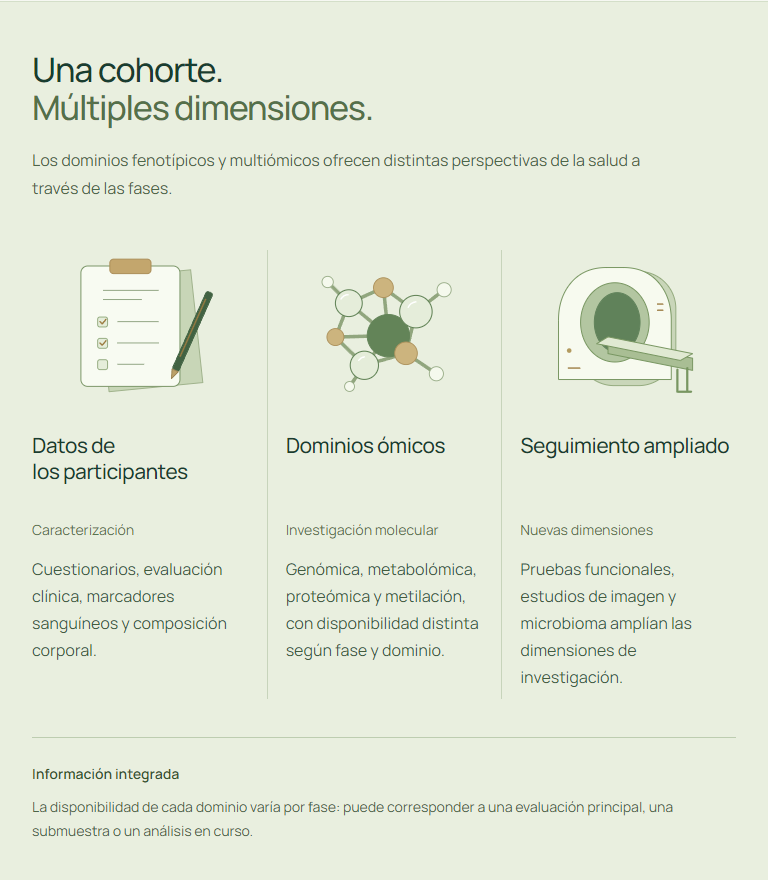
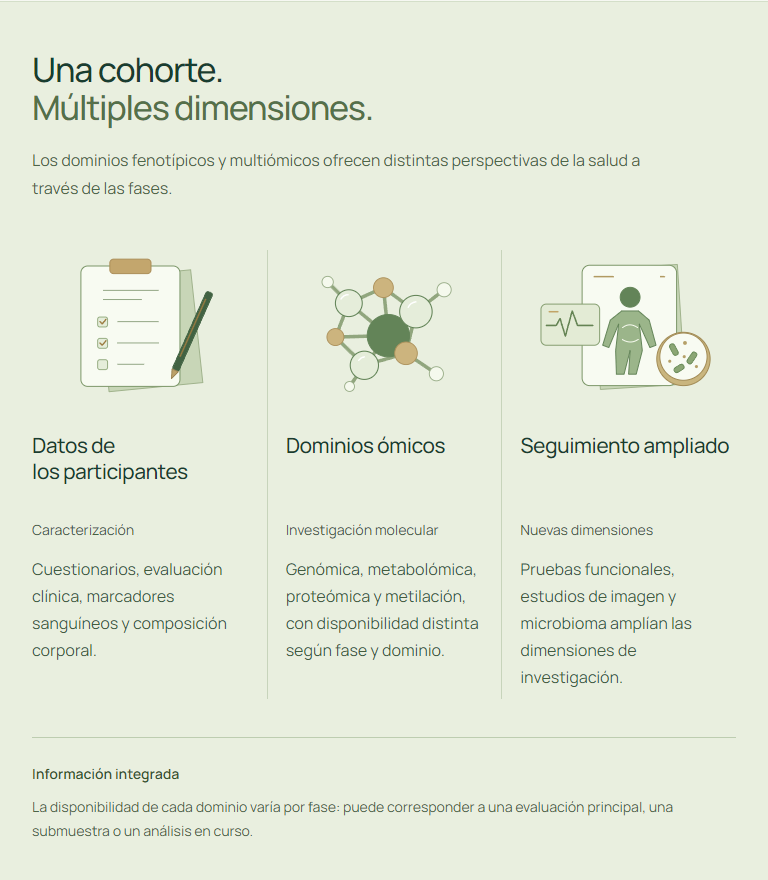
Replace scanner with broader follow-up illustration

Changed region(s): [[0.6875, 0.2761, 0.9375, 0.4602]]

diff --git a/public/landing/proyecto-propuesta/index.html b/public/landing/proyecto-propuesta/index.html
@@ -1,1 +1,1 @@
-<!doctype html><html lang="es"><head><meta charset="utf-8"><meta name="viewport" content="width=device-width,initial-scale=1"><meta name="robots" content="noindex,nofollow"><title>El proyecto · Investigación que conecta | Cohorte</title><link rel="icon" href="../assets/0082ee1e712e9015.png"><link rel="stylesheet" href="../exploraciones/fonts.css"><link rel="stylesheet" href="styles.css?v=3"><link rel="stylesheet" href="dimensions.css?v=4"></head><body><a class="skip-link" href="#proyecto">Saltar al contenido</a><header class="preview-header"><div class="container preview-inner"><a class="identity" href="/"><img src="../assets/0082ee1e712e9015.png" width="44" height="44" alt="Logo de la Cohorte"><span>Cohorte de<br>Trabajadores de la Salud</span></a><nav aria-label="Vistas de la propuesta"><span>El proyecto · Propuesta visual</span><a href="anterior.html">Versión anterior</a><a href="/landing/_content.html#preguntas-investigacion">Sitio actual</a></nav></div></header><main id="proyecto"><section class="research container" aria-labelledby="project-title"><div class="introduction"><h1 id="project-title"><span>Una misma cohorte.</span>Muchas preguntas<br>por responder.</h1><div class="intro-copy"><p>La información reunida a lo largo del seguimiento ha dado lugar a publicaciones en distintas áreas de la salud, por ejemplo:</p><a class="jump-link" href="#informacion">Explorar la información integrada</a></div></div><div class="research-grid"><article class="research-plate cardio" id="area-1"><svg class="organ organ-heart" viewBox="0 0 270 210" aria-hidden="true" fill="none"><g stroke="currentColor" stroke-width="1.5" stroke-linecap="round" stroke-linejoin="round"><path class="solid" d="M117 65c-4-23 12-34 27-27 12 4 16 18 12 29 17-8 34 6 35 25 2 27-21 48-47 73-19-8-58-38-64-65-5-21 11-37 37-35Z"/><path d="M121 70c-3-18-7-29-3-45m20 34 10-33m5 47 25-25M140 89c-1 26 7 39 6 66m-3-63c-14-17-31-15-43-4m43 20c17-13 30-12 41-5m-44 17-23 5m29 12 17-7"/><path class="trace" d="M16 110h33l9-16 12 37 15-54 13 33h21"/></g></svg><div class="plate-copy"><h2>Alimentación y salud cardiometabólica</h2><p>Las publicaciones de la Cohorte han analizado cómo se relacionan el consumo de bebidas, los patrones alimentarios, la presión arterial y los indicadores metabólicos.</p></div></article><article class="research-plate body" id="area-2"><svg class="organ organ-body" viewBox="0 0 270 210" aria-hidden="true" fill="none"><g stroke="currentColor" stroke-width="1.5" stroke-linecap="round" stroke-linejoin="round"><circle class="solid" cx="135" cy="33" r="18"/><path class="solid" d="m119 58-26 17-17 52 13 4 21-44-7 62 10 48h16l5-44 5 44h16l10-48-7-62 20 44 14-4-18-52-24-17Z"/><path d="M112 104c15 8 30 8 45 0m-48 23c18 8 34 8 52 0m-42 18h31"/><ellipse class="orbit" cx="135" cy="116" rx="92" ry="25"/><path class="trace" d="M31 116h22m164 0h22"/></g></svg><div class="plate-copy"><h2>Composición corporal y metabolismo</h2><p>El seguimiento permite estudiar la relación temporal entre la adiposidad, los estilos de vida y los indicadores de resistencia a la insulina.</p></div></article><article class="research-plate bone" id="area-3"><svg class="organ organ-bone" viewBox="0 0 270 210" aria-hidden="true" fill="none"><g stroke="currentColor" stroke-width="1.5" stroke-linecap="round" stroke-linejoin="round"><g transform="rotate(28 140 100)"><path class="solid" d="M126 52c-27 9-42-20-21-31 10-7 20 3 25-1 9-16 30-10 31 5 1 11-8 17-11 27-8 26-8 63 0 92 4 10 14 14 13 27-2 18-23 21-33 6-9 10-29 8-31-8-3-13 10-20 15-30 9-23 10-63 12-87Z"/><path d="M126 52c10-6 18-7 24 0m-36 87c10 9 22 10 36 5m-13-76-3 52"/><path class="detail" d="m111 27 9 4-6 9m29-12-6 9 8 4m-34 116 10 4-6 9m29-15-6 10 11 3"/></g></g></svg><div class="plate-copy"><h2>Salud ósea y nutrición</h2><p>Distintos análisis estudian la densidad mineral ósea y su relación con la alimentación, los antioxidantes y los factores genéticos.</p></div></article><article class="research-plate mind" id="area-4"><svg class="organ organ-brain" viewBox="0 0 270 210" aria-hidden="true" fill="none"><g stroke="currentColor" stroke-width="1.5" stroke-linecap="round" stroke-linejoin="round"><path class="solid" d="M135 37c-18-21-48-9-49 13-21-2-36 18-28 36-23 12-22 43 0 54-2 24 18 40 40 34 7 19 29 21 37 6 8 15 30 13 37-6 22 6 42-10 40-34 22-11 23-42 0-54 8-18-7-38-28-36-1-22-31-34-49-13Z"/><path d="M135 37v143M86 50c19-1 29 13 21 28m-49 8c20-8 33 0 35 16m-35 38c12-19 30-14 36-1m4 35c-5-17 2-28 17-30m69-94c-19-1-29 13-21 28m49 8c-20-8-33 0-35 16m35 38c-12-19-30-14-36-1m-4 35c5-17-2-28-17-30M107 78c17 0 28 12 28 24m28-24c-17 0-28 12-28 24M93 102c-9 14 1 27 14 26m70-26c9 14-1 27-14 26"/></g></svg><div class="plate-copy"><h2>Salud mental y contexto de vida</h2><p>La investigación también aborda los síntomas depresivos y su relación con la actividad física, la alimentación y experiencias del entorno personal.</p></div></article><article class="research-plate genetics" id="area-5"><img class="dna-art" src="../assets/adn-molecular.png" width="1024" height="1536" alt="Representación molecular de una doble hélice de ADN"><div class="plate-copy"><h2>Genética y microbiota intestinal</h2><p>En subgrupos de participantes se han estudiado variantes genéticas, composición de la microbiota y su relación con la salud metabólica.</p></div></article><article class="research-plate liver" id="area-6"><svg class="organ organ-liver" viewBox="0 0 270 210" aria-hidden="true" fill="none"><g stroke="currentColor" stroke-width="1.5" stroke-linecap="round" stroke-linejoin="round"><path class="solid" d="M42 105c1-32 19-59 51-63 37-6 48 8 75 9 15 1 31-4 43 2 21 12 24 35 15 55-10 22-31 23-48 12-8-5-18-6-27 0-23 13-49 35-73 30-23-4-37-21-36-45Z"/><path d="M155 51c-14 18-8 45-4 69m-9-29c-26-8-48-7-68 1m63 0c-9 13-17 24-32 31m44-43c23 0 40-3 54-14"/><path class="trace" d="M81 172h18m7 0h18m7 0h18m7 0h18"/></g></svg><div class="plate-copy"><h2>Salud hepática</h2><p>La información de la Cohorte ha permitido investigar herramientas no invasivas para evaluar el riesgo de fibrosis hepática a partir de mediciones clínicas y bioquímicas.</p></div></article></div><p class="research-note">Cada investigación utiliza las fases y los participantes que corresponden a su pregunta de estudio. Los hallazgos describen asociaciones en los grupos analizados.</p></section><section class="dimensions" id="informacion" aria-labelledby="information-title"><div class="container"><div class="dimensions-heading"><h2 id="information-title">Una cohorte.<br><span>Múltiples dimensiones.</span></h2><p>Los dominios fenotípicos y multiómicos ofrecen distintas perspectivas de la salud a través de las fases.</p></div><div class="dimensions-grid"><article class="dimension"><svg viewBox="0 0 280 210" aria-hidden="true" class="dimension-art"><path class="paper-back" d="m83 38 123-12 16 148-123 12Z"/><rect class="paper" x="62" y="21" width="130" height="158" rx="9"/><rect class="clip" x="100" y="12" width="54" height="19" rx="5"/><path class="ink" d="M91 53h73M91 65h51"/><rect class="check-box" x="84" y="88" width="13" height="13" rx="3"/><rect class="check-box" x="84" y="116" width="13" height="13" rx="3"/><rect class="check-box" x="84" y="144" width="13" height="13" rx="3"/><path class="accent-stroke" d="m87 94 3 3 5-6m-8 31 3 3 5-6"/><path class="ink" d="M110 94h54m-54 28h54m-54 28h35"/><g transform="rotate(24 209 107)"><rect class="pencil" x="204" y="51" width="9" height="112" rx="3"/><path class="pencil-tip" d="m204 163 4.5 12 4.5-12Z"/><path class="accent-stroke" d="M207 62v81"/></g></svg><h3>Datos de los participantes</h3><p class="dimension-category">Caracterización</p><p class="dimension-description">Cuestionarios, evaluación clínica, marcadores sanguíneos y composición corporal.</p></article><article class="dimension"><svg viewBox="0 0 280 210" aria-hidden="true" class="dimension-art"><g class="bonds"><path d="m89 67 49-22 46 34-14 59-59 17-41-40 19-48Zm49-22 7 68-56-46m56 46 39-34m-39 34 25 25m-25-25-34 42m-41-40 75-2m39-34 40-31m-54 90 43 29m-102-12-21 30m-1-118-30-30"/></g><circle class="atom-soft" cx="145" cy="113" r="30"/><circle class="atom" cx="89" cy="67" r="19"/><circle class="atom-gold" cx="138" cy="45" r="14"/><circle class="atom" cx="184" cy="79" r="23"/><circle class="atom-gold" cx="170" cy="138" r="16"/><circle class="atom" cx="111" cy="155" r="20"/><circle class="atom-gold" cx="70" cy="115" r="12"/><circle class="atom-small" cx="224" cy="48" r="10"/><circle class="atom-small" cx="213" cy="167" r="10"/><circle class="atom-small" cx="90" cy="185" r="7"/><circle class="atom-small" cx="59" cy="37" r="8"/><path class="atom-shine" d="M78 61a12 12 0 0 1 10-6m85 18a15 15 0 0 1 11-8m-81 83a11 11 0 0 1 8-5"/></svg><h3>Dominios ómicos</h3><p class="dimension-category">Investigación molecular</p><p class="dimension-description">Genómica, metabolómica, proteómica y metilación, con disponibilidad distinta según fase y dominio.</p></article><article class="dimension"><svg viewBox="0 0 280 210" aria-hidden="true" class="dimension-art"><rect class="scanner-back" x="73" y="28" width="130" height="150" rx="49"/><path class="scanner-face" d="M112 23h22c39 0 63 29 63 69v78H49V92c0-40 24-69 63-69Z"/><ellipse class="scanner-opening" cx="123" cy="95" rx="45" ry="52"/><ellipse class="scanner-inner" cx="126" cy="95" rx="30" ry="39"/><path class="scanner-table" d="m114 120 111 22v16l-111-22Z"/><path class="scanner-table-top" d="m114 114 111 22-16 9-110-22Z"/><path class="scanner-leg" d="M205 157v29h18m-5-31v31"/><path class="accent-stroke" d="M62 155h15m102-84h7m-7 8h7"/><circle class="scanner-light" cx="63" cy="132" r="3"/></svg><h3>Seguimiento ampliado</h3><p class="dimension-category">Nuevas dimensiones</p><p class="dimension-description">Pruebas funcionales, estudios de imagen y microbioma amplían las dimensiones de investigación.</p></article></div><div class="dimensions-note"><p class="dimensions-note-title">Información integrada</p><p>La disponibilidad de cada dominio varía por fase: puede corresponder a una evaluación principal, una submuestra o un análisis en curso.</p></div></div></section></main><footer class="container preview-footer"><span>Cohorte de Trabajadores de la Salud</span><a href="/">Volver a la landing actual</a></footer></body></html>
+<!doctype html><html lang="es"><head><meta charset="utf-8"><meta name="viewport" content="width=device-width,initial-scale=1"><meta name="robots" content="noindex,nofollow"><title>El proyecto · Investigación que conecta | Cohorte</title><link rel="icon" href="../assets/0082ee1e712e9015.png"><link rel="stylesheet" href="../exploraciones/fonts.css"><link rel="stylesheet" href="styles.css?v=3"><link rel="stylesheet" href="dimensions.css?v=4"></head><body><a class="skip-link" href="#proyecto">Saltar al contenido</a><header class="preview-header"><div class="container preview-inner"><a class="identity" href="/"><img src="../assets/0082ee1e712e9015.png" width="44" height="44" alt="Logo de la Cohorte"><span>Cohorte de<br>Trabajadores de la Salud</span></a><nav aria-label="Vistas de la propuesta"><span>El proyecto · Propuesta visual</span><a href="anterior.html">Versión anterior</a><a href="/landing/_content.html#preguntas-investigacion">Sitio actual</a></nav></div></header><main id="proyecto"><section class="research container" aria-labelledby="project-title"><div class="introduction"><h1 id="project-title"><span>Una misma cohorte.</span>Muchas preguntas<br>por responder.</h1><div class="intro-copy"><p>La información reunida a lo largo del seguimiento ha dado lugar a publicaciones en distintas áreas de la salud, por ejemplo:</p><a class="jump-link" href="#informacion">Explorar la información integrada</a></div></div><div class="research-grid"><article class="research-plate cardio" id="area-1"><svg class="organ organ-heart" viewBox="0 0 270 210" aria-hidden="true" fill="none"><g stroke="currentColor" stroke-width="1.5" stroke-linecap="round" stroke-linejoin="round"><path class="solid" d="M117 65c-4-23 12-34 27-27 12 4 16 18 12 29 17-8 34 6 35 25 2 27-21 48-47 73-19-8-58-38-64-65-5-21 11-37 37-35Z"/><path d="M121 70c-3-18-7-29-3-45m20 34 10-33m5 47 25-25M140 89c-1 26 7 39 6 66m-3-63c-14-17-31-15-43-4m43 20c17-13 30-12 41-5m-44 17-23 5m29 12 17-7"/><path class="trace" d="M16 110h33l9-16 12 37 15-54 13 33h21"/></g></svg><div class="plate-copy"><h2>Alimentación y salud cardiometabólica</h2><p>Las publicaciones de la Cohorte han analizado cómo se relacionan el consumo de bebidas, los patrones alimentarios, la presión arterial y los indicadores metabólicos.</p></div></article><article class="research-plate body" id="area-2"><svg class="organ organ-body" viewBox="0 0 270 210" aria-hidden="true" fill="none"><g stroke="currentColor" stroke-width="1.5" stroke-linecap="round" stroke-linejoin="round"><circle class="solid" cx="135" cy="33" r="18"/><path class="solid" d="m119 58-26 17-17 52 13 4 21-44-7 62 10 48h16l5-44 5 44h16l10-48-7-62 20 44 14-4-18-52-24-17Z"/><path d="M112 104c15 8 30 8 45 0m-48 23c18 8 34 8 52 0m-42 18h31"/><ellipse class="orbit" cx="135" cy="116" rx="92" ry="25"/><path class="trace" d="M31 116h22m164 0h22"/></g></svg><div class="plate-copy"><h2>Composición corporal y metabolismo</h2><p>El seguimiento permite estudiar la relación temporal entre la adiposidad, los estilos de vida y los indicadores de resistencia a la insulina.</p></div></article><article class="research-plate bone" id="area-3"><svg class="organ organ-bone" viewBox="0 0 270 210" aria-hidden="true" fill="none"><g stroke="currentColor" stroke-width="1.5" stroke-linecap="round" stroke-linejoin="round"><g transform="rotate(28 140 100)"><path class="solid" d="M126 52c-27 9-42-20-21-31 10-7 20 3 25-1 9-16 30-10 31 5 1 11-8 17-11 27-8 26-8 63 0 92 4 10 14 14 13 27-2 18-23 21-33 6-9 10-29 8-31-8-3-13 10-20 15-30 9-23 10-63 12-87Z"/><path d="M126 52c10-6 18-7 24 0m-36 87c10 9 22 10 36 5m-13-76-3 52"/><path class="detail" d="m111 27 9 4-6 9m29-12-6 9 8 4m-34 116 10 4-6 9m29-15-6 10 11 3"/></g></g></svg><div class="plate-copy"><h2>Salud ósea y nutrición</h2><p>Distintos análisis estudian la densidad mineral ósea y su relación con la alimentación, los antioxidantes y los factores genéticos.</p></div></article><article class="research-plate mind" id="area-4"><svg class="organ organ-brain" viewBox="0 0 270 210" aria-hidden="true" fill="none"><g stroke="currentColor" stroke-width="1.5" stroke-linecap="round" stroke-linejoin="round"><path class="solid" d="M135 37c-18-21-48-9-49 13-21-2-36 18-28 36-23 12-22 43 0 54-2 24 18 40 40 34 7 19 29 21 37 6 8 15 30 13 37-6 22 6 42-10 40-34 22-11 23-42 0-54 8-18-7-38-28-36-1-22-31-34-49-13Z"/><path d="M135 37v143M86 50c19-1 29 13 21 28m-49 8c20-8 33 0 35 16m-35 38c12-19 30-14 36-1m4 35c-5-17 2-28 17-30m69-94c-19-1-29 13-21 28m49 8c-20-8-33 0-35 16m35 38c-12-19-30-14-36-1m-4 35c5-17-2-28-17-30M107 78c17 0 28 12 28 24m28-24c-17 0-28 12-28 24M93 102c-9 14 1 27 14 26m70-26c9 14-1 27-14 26"/></g></svg><div class="plate-copy"><h2>Salud mental y contexto de vida</h2><p>La investigación también aborda los síntomas depresivos y su relación con la actividad física, la alimentación y experiencias del entorno personal.</p></div></article><article class="research-plate genetics" id="area-5"><img class="dna-art" src="../assets/adn-molecular.png" width="1024" height="1536" alt="Representación molecular de una doble hélice de ADN"><div class="plate-copy"><h2>Genética y microbiota intestinal</h2><p>En subgrupos de participantes se han estudiado variantes genéticas, composición de la microbiota y su relación con la salud metabólica.</p></div></article><article class="research-plate liver" id="area-6"><svg class="organ organ-liver" viewBox="0 0 270 210" aria-hidden="true" fill="none"><g stroke="currentColor" stroke-width="1.5" stroke-linecap="round" stroke-linejoin="round"><path class="solid" d="M42 105c1-32 19-59 51-63 37-6 48 8 75 9 15 1 31-4 43 2 21 12 24 35 15 55-10 22-31 23-48 12-8-5-18-6-27 0-23 13-49 35-73 30-23-4-37-21-36-45Z"/><path d="M155 51c-14 18-8 45-4 69m-9-29c-26-8-48-7-68 1m63 0c-9 13-17 24-32 31m44-43c23 0 40-3 54-14"/><path class="trace" d="M81 172h18m7 0h18m7 0h18m7 0h18"/></g></svg><div class="plate-copy"><h2>Salud hepática</h2><p>La información de la Cohorte ha permitido investigar herramientas no invasivas para evaluar el riesgo de fibrosis hepática a partir de mediciones clínicas y bioquímicas.</p></div></article></div><p class="research-note">Cada investigación utiliza las fases y los participantes que corresponden a su pregunta de estudio. Los hallazgos describen asociaciones en los grupos analizados.</p></section><section class="dimensions" id="informacion" aria-labelledby="information-title"><div class="container"><div class="dimensions-heading"><h2 id="information-title">Una cohorte.<br><span>Múltiples dimensiones.</span></h2><p>Los dominios fenotípicos y multiómicos ofrecen distintas perspectivas de la salud a través de las fases.</p></div><div class="dimensions-grid"><article class="dimension"><svg viewBox="0 0 280 210" aria-hidden="true" class="dimension-art"><path class="paper-back" d="m83 38 123-12 16 148-123 12Z"/><rect class="paper" x="62" y="21" width="130" height="158" rx="9"/><rect class="clip" x="100" y="12" width="54" height="19" rx="5"/><path class="ink" d="M91 53h73M91 65h51"/><rect class="check-box" x="84" y="88" width="13" height="13" rx="3"/><rect class="check-box" x="84" y="116" width="13" height="13" rx="3"/><rect class="check-box" x="84" y="144" width="13" height="13" rx="3"/><path class="accent-stroke" d="m87 94 3 3 5-6m-8 31 3 3 5-6"/><path class="ink" d="M110 94h54m-54 28h54m-54 28h35"/><g transform="rotate(24 209 107)"><rect class="pencil" x="204" y="51" width="9" height="112" rx="3"/><path class="pencil-tip" d="m204 163 4.5 12 4.5-12Z"/><path class="accent-stroke" d="M207 62v81"/></g></svg><h3>Datos de los participantes</h3><p class="dimension-category">Caracterización</p><p class="dimension-description">Cuestionarios, evaluación clínica, marcadores sanguíneos y composición corporal.</p></article><article class="dimension"><svg viewBox="0 0 280 210" aria-hidden="true" class="dimension-art"><g class="bonds"><path d="m89 67 49-22 46 34-14 59-59 17-41-40 19-48Zm49-22 7 68-56-46m56 46 39-34m-39 34 25 25m-25-25-34 42m-41-40 75-2m39-34 40-31m-54 90 43 29m-102-12-21 30m-1-118-30-30"/></g><circle class="atom-soft" cx="145" cy="113" r="30"/><circle class="atom" cx="89" cy="67" r="19"/><circle class="atom-gold" cx="138" cy="45" r="14"/><circle class="atom" cx="184" cy="79" r="23"/><circle class="atom-gold" cx="170" cy="138" r="16"/><circle class="atom" cx="111" cy="155" r="20"/><circle class="atom-gold" cx="70" cy="115" r="12"/><circle class="atom-small" cx="224" cy="48" r="10"/><circle class="atom-small" cx="213" cy="167" r="10"/><circle class="atom-small" cx="90" cy="185" r="7"/><circle class="atom-small" cx="59" cy="37" r="8"/><path class="atom-shine" d="M78 61a12 12 0 0 1 10-6m85 18a15 15 0 0 1 11-8m-81 83a11 11 0 0 1 8-5"/></svg><h3>Dominios ómicos</h3><p class="dimension-category">Investigación molecular</p><p class="dimension-description">Genómica, metabolómica, proteómica y metilación, con disponibilidad distinta según fase y dominio.</p></article><article class="dimension"><svg viewBox="0 0 280 210" aria-hidden="true" class="dimension-art"><path d="M64 91h60m38 35 46 23" stroke="#9eb28a" stroke-width="2"/><path d="m94 26 111-7 10 157-111 7Z" fill="#c8d6b7" stroke="#9fb28b"/><rect x="80" y="20" width="124" height="158" rx="10" fill="#f8fbf2" stroke="#7b9668"/><path d="M96 35h25m62 0h5" stroke="#b19a62" stroke-width="2"/><circle cx="143" cy="62" r="13" fill="#638458" stroke="#638458"/><path d="M132 80h22l14 12 9 33-8 3-14-31 4 35-8 31h-10l2-31-8 31h-10l-1-31 4-35-13 31-8-3 10-33Z" fill="#9bb58a" stroke="#638458"/><path d="M133 102c6-5 13-5 20 0m-21 15c8 5 15 5 22 0" stroke="#f7faef"/><rect x="26" y="71" width="77" height="54" rx="7" fill="#e3ebd5" stroke="#849d6f"/><path d="M33 99h13l5-9 7 23 9-33 7 19h20" fill="none" stroke="#648353" stroke-width="2"/><path d="M37 81h11" stroke="#c2a467" stroke-width="2"/><circle cx="213" cy="143" r="35" fill="#c9b57e" stroke="#a18a54"/><circle cx="213" cy="140" r="31" fill="#f8fbf2" stroke="#a18a54"/><g fill="#8ba674" stroke="#6d8e5c"><rect x="197" y="123" width="7" height="16" rx="3.5" transform="rotate(-28 200 131)"/><rect x="221" y="133" width="7" height="17" rx="3.5" transform="rotate(34 224 141)"/><rect x="204" y="148" width="7" height="14" rx="3.5" transform="rotate(58 207 155)"/></g><g fill="#b5a068" stroke="none"><circle cx="215" cy="122" r="2.5"/><circle cx="195" cy="146" r="2"/><circle cx="230" cy="153" r="2"/><circle cx="214" cy="140" r="2"/></g></svg><h3>Seguimiento ampliado</h3><p class="dimension-category">Nuevas dimensiones</p><p class="dimension-description">Pruebas funcionales, estudios de imagen y microbioma amplían las dimensiones de investigación.</p></article></div><div class="dimensions-note"><p class="dimensions-note-title">Información integrada</p><p>La disponibilidad de cada dominio varía por fase: puede corresponder a una evaluación principal, una submuestra o un análisis en curso.</p></div></div></section></main><footer class="container preview-footer"><span>Cohorte de Trabajadores de la Salud</span><a href="/">Volver a la landing actual</a></footer></body></html>
